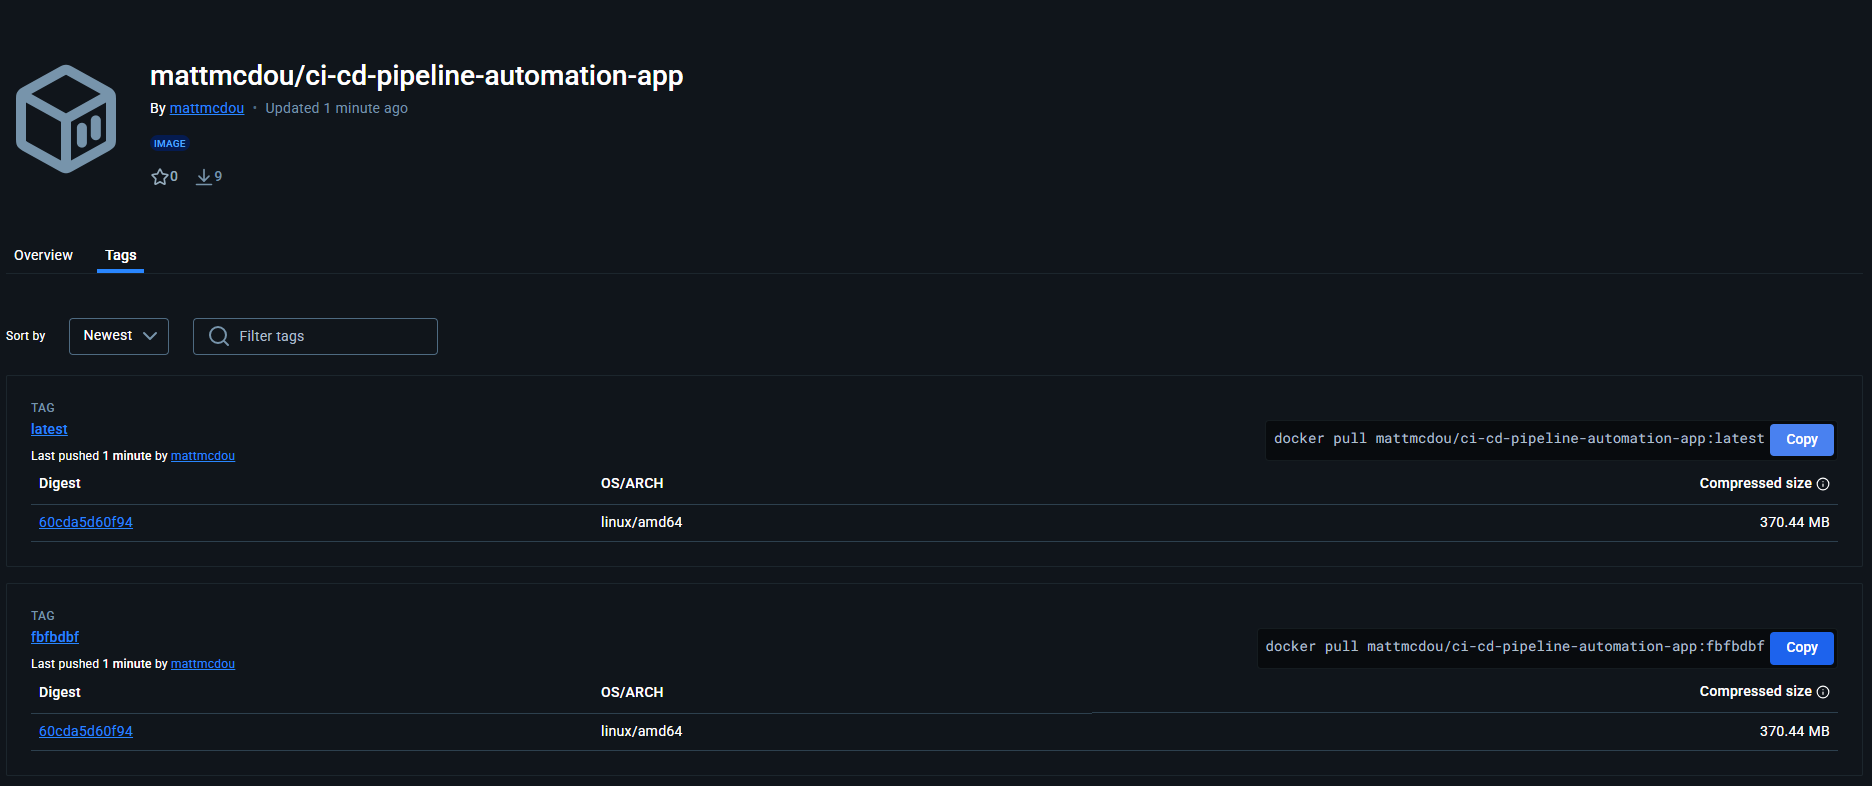
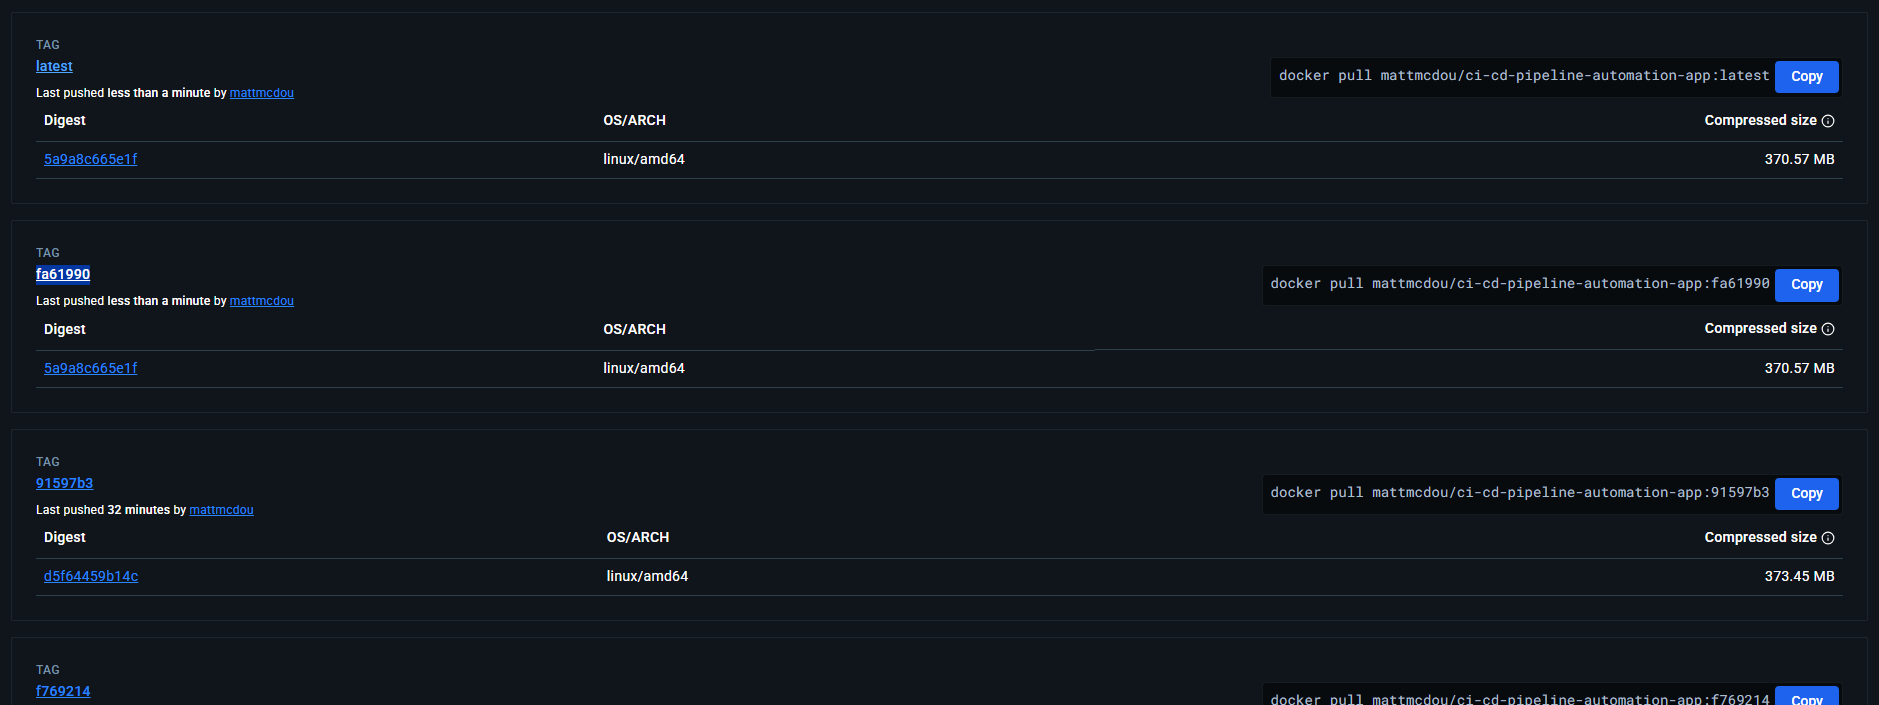
Completed: Project Check-IN 1

diff --git a/README.md b/README.md
@@ -77,9 +77,19 @@ docker run -it -p 8080:8080 mattmcdou/ci-cd-pipeline-automation-app:latest
 
 ### Automated Image Version Tagging and Publishing
 
-GitHub Actions was used to automate the process of version tagging and publishing the Docker image to Docker Hub. The workflow can be found [here](./.github/workflows/docker-image.yml). The workflow is triggered on every push to the master (default) branch. The workflow builds the Docker image, tags it with the latest version, and then pushes it to Docker Hub. The following screenshot shows the final results of a new version on Docker Hub, with the latest tag.
+GitHub Actions was used to automate the process of version tagging and publishing the Docker image to Docker Hub. The workflow can be found [here](./.github/workflows/docker-image.yml). The workflow is triggered on every push to the master (default) branch. The workflow builds the Docker image, tags it with the latest version, and then pushes it to Docker Hub. The following screenshot shows the final results of a new version on Docker Hub, **with the latest tag being the commit SHA id**.
 
-![Automated Image Tagging 2 Versions](./report-media/automated_image_tagging.png)
+Commit SHA:
+
+The commit SHA is fa61990
+
+![Commit Sha](./report-media//commit_sha.png)
+
+Automated Image Tagging Commit Versions:
+
+The SHA of fa61990 is the latest tag id for the image on Docker Hub.
+
+![Automated Image Tagging Commit Versions](./report-media/automated_image_tagging.png)
 
 ## CI/CD Pipeline Automation (40%)
 
